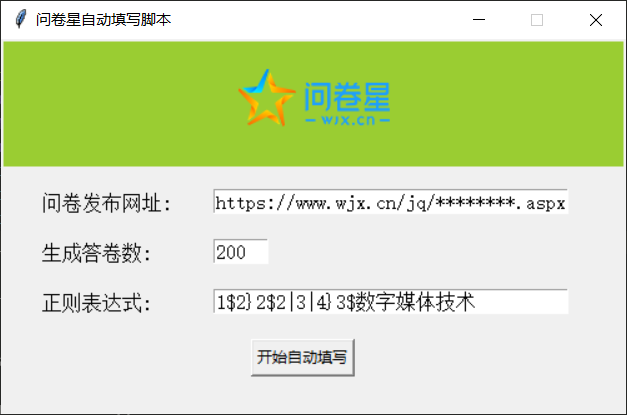
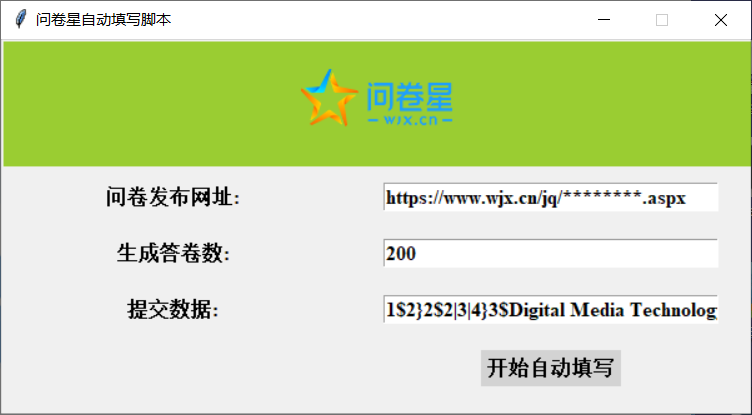
Update the whole repository

diff --git a/wjx.py b/wjx.py
@@ -3,19 +3,21 @@ import requests
 import re
 import time
 
-class WengJuanXing:
 
-    def __init__(self, url, no, exp):
+class WenJuanXing:
+
+    def __init__(self, url, no, subdata):
         self.wj_url = url
         self.no = int(no)
-        self.exp = exp
+        self.subdata = subdata
         self.post_url = None
         self.header = None
         self.cookie = None
 
     def get_response(self):
         '''
-        Get response from wj_url.
+        Access the wj_url and get the inner html.
+        :return: response from the get request
         '''
         response = requests.get(url=self.wj_url, headers=self.header)
         self.cookie = response.cookies
@@ -23,41 +25,57 @@ class WengJuanXing:
 
     def get_ktimes(self):
         ''' 
-        Generate arguments[ktimes] (randomly) of post_url.
+        Generate an integer as arguments[ktimes] to construct the post_url.
+        :return: ktimes - an integer
         '''
-        return random.randint(5, 18)
+        return random.randint(15, 50)
 
     def get_jqnonce(self, response):
         ''' 
-        Generate arguments[jqnonce] (regularly) of post_url.
+        Search for the arguments[jqnonce] from the response text through regular expression to construct the post_url.
+        :param response: response from the get request
+        :return: jqnonce - matched group
         '''
         jqnonce = re.search(r'.{8}-.{4}-.{4}-.{4}-.{12}', response.text)
         return jqnonce.group()
+        # try:
+        #     return jqnonce.group()
+        # except AttributeError:
+        #     return None
 
     def get_start_time(self, response):
         ''' 
-        Generate arguments[starttime] (regularly) of post_url.
+        Search for the arguments[start_time] from the response text through regular expression to construct the post_url.
+        :param response: response from the get request
+        :return: start_time - matched group
         '''
         start_time = re.search(r'\d+?/\d+?/\d+?\s\d+?:\d{2}', response.text)
         return start_time.group()
 
     def get_rn(self, response):
         ''' 
-        Generate arguments[rn] (regularly) of post_url.
+        Search for the arguments[rn] from the response text through regular expression to construct the post_url.
+        :param response: response from the get request
+        :return: rn - matched group
         '''
         rn = re.search(r'\d{9,10}\.\d{8}', response.text)
         return rn.group()
 
     def get_id(self, response):
         ''' 
-        Generate arguments[id] (regularly) of post_url.
+        Search for the arguments[id] from the response text through regular expression to construct the post_url.
+        :param response: response from the get request
+        :return: id - matched group
         '''
         id = re.search(r'\d{8}', response.text)
         return id.group()
 
     def get_jqsign(self, ktimes, jqnonce):
         '''
-        Generate jqsign referring to ktimes and jqsign.
+        Encrypt arguments[jqsign] with arguments[ktimes] and arguments[jqnonce] to construct the post_url.
+        :param ktimes: ktimes - an integer
+        :param jqnonce: jqnonce - matched group
+        :return: jqnonce - a string
         '''
         result = []
         b = ktimes % 10
@@ -69,6 +87,9 @@ class WengJuanXing:
         return ''.join(result)
 
     def set_post_url(self):
+        '''
+        The main function to construct the post_url.
+        '''
         self.set_header()
         response = self.get_response()
         ktimes = self.get_ktimes()
@@ -87,7 +108,7 @@ class WengJuanXing:
 
     def set_header(self):
         '''
-        Set header refer to ip(generated randomly).
+        Generate ip randomly, segmented control needed.
         '''
         ip = '{}.{}.{}.{}'.format(112, random.randint(
             64, 68), random.randint(0, 255), random.randint(0, 255))
@@ -99,13 +120,23 @@ class WengJuanXing:
 
     def set_data(self):
         '''
-        Multiple Choice Format: {ProblemId}${OptionId}
+        One-choice Format: [ProblemId]$[OptionId]
+
+        Multiple-choice Format: [ProblemId]$[OptionId|OptionId...]
+
+        Fill-in-the-blanks Format: [ProblemId]$[ContentText]
+
+        use '{' as separators
         '''
         self.data = {
-            'submitdata': self.exp
+            'submitdata': self.subdata
         }
 
     def post_data(self):
+        '''
+        Send datas to the server.
+        :return: result from the server
+        '''
         self.set_data()
         response = requests.post(
             url=self.post_url, data=self.data, headers=self.header, cookies=self.cookie)
@@ -119,6 +150,3 @@ class WengJuanXing:
     def mul_run(self):
         for i in range(self.no):
             self.run()
-
-
-

diff --git a/main_window.py b/main_window.py
@@ -1,0 +1,64 @@
+import tkinter as tk
+import tkinter.font as tf
+
+import settings
+import wjx
+
+
+class window:
+    __width = 600
+    __height = 300
+    __root = tk.Tk()
+
+    def update(self):
+        ACCESS_URL = self.var_access_url.get()
+        SAMPLE_NO = self.var_sample_no.get()
+        SUBMIT_DATA = self.var_submit_data.get()
+        print(ACCESS_URL)
+        print(SAMPLE_NO)
+        print(SUBMIT_DATA)
+        my_wjx = wjx.WenJuanXing(settings.ACCESS_URL,
+                                  settings.SAMPLE_NO, settings.SUBMIT_DATA)
+        my_wjx.mul_run()
+
+    def __init__(self):
+
+        window = self.__root
+        width = self.__width
+        height = self.__height
+
+        window.title('问卷星自动填写脚本')
+        window.geometry("%sx%s" % (width, height))
+        window.resizable(width=False, height=False)
+
+        canvas = tk.Canvas(window, width=width,
+                           height=height/3, bg='yellowgreen')
+        image_file = tk.PhotoImage(file='logo.png')
+        image = canvas.create_image(width/2, 10, anchor='n', image=image_file)
+        canvas.grid(row=0, column=0, columnspan=3)
+
+        font_style = tf.Font(family="Times", size=12, weight=tf.BOLD)
+
+        tk.Label(window, text='问卷发布网址:', font=font_style).grid(row=1, column=0, columnspan=1,rowspan=2,pady=10)
+        tk.Label(window, text='生成答卷数:', font=font_style).grid(row=3, column=0, columnspan=1,rowspan=2,pady=10)
+        tk.Label(window, text='提交数据:', font=font_style).grid(row=5, column=0, columnspan=1,rowspan=2,pady=10)
+
+        self.var_access_url = tk.StringVar()
+        self.var_access_url.set(settings.ACCESS_URL)
+        entry_access_url = tk.Entry(
+            window, textvariable=self.var_access_url, font=font_style).grid(row=1, column=1, columnspan=2,rowspan=2,pady=1,sticky='w'+'e',padx=30)
+
+        self.var_sample_no = tk.StringVar()
+        self.var_sample_no.set(settings.SAMPLE_NO)
+        entry_sample_no = tk.Entry(
+            window, textvariable=self.var_sample_no, font=font_style).grid(row=3, column=1, columnspan=2,rowspan=2,pady=1,sticky='w'+'e',padx=30)
+
+        self.var_submit_data = tk.StringVar()
+        self.var_submit_data.set(settings.SUBMIT_DATA)
+        entry_submit_data = tk.Entry(
+            window, textvariable=self.var_submit_data, font=font_style).grid(row=5, column=1, columnspan=2,rowspan=2,pady=1,sticky='w'+'e',padx=30)
+
+        btn_run = tk.Button(window, text='开始自动填写', command=self.update, font=font_style,
+                            borderwidth=0, cursor='heart', bg='#D3D3D3', activeforeground='#A9A9A9').grid(row=7, column=1, columnspan=2,rowspan=1,pady=10)
+
+        window.mainloop()

diff --git a/settings.py b/settings.py
@@ -1,12 +1,14 @@
 # default settings
 ACCESS_URL = 'https://www.wjx.cn/jq/********.aspx'
 SAMPLE_NO = 200
-REG_EXP = '1$2}2$2|3|4}3$数字媒体技术'
+SUBMIT_DATA = '1$2}2$2|3|4}3$Digital Media Technology'
 
 '''
 Forms of 'submitdata', for example:
 
 '1$2': means selecting the second option of question one (used in one-choice questions)
-'3$2|3|4': means selecting the second, the third and the fourth options of question three (used in multiple-choice questions) 
-'2$I am a student': means filling the blank with 'I am a student' of question two (used in fill-in-the-blanks)
+'2$2|3|4': means selecting the second, the third and the fourth options of question three (used in multiple-choice questions) 
+'3$Digital Media Technology': means filling the blank with '3$Digital Media Technology' of question two (used in fill-in-the-blanks)
+
+Note that we use '{' as a separator. 
 '''

diff --git a/main.py b/main.py
@@ -1,0 +1,11 @@
+import main_window
+
+
+def main():
+
+    window = main_window.window()
+
+
+if __name__ == "__main__":
+
+    main()

diff --git a/trial/README.md b/trial/README.md
@@ -1,0 +1,35 @@
+# Test for One-choice Questions
+
+## settings
+
+```
+ACCESS_URL = 'https://www.wjx.cn/jq/49773331.aspx'
+SAMPLE_NO = 50
+SUBMIT_DATA = '1$2'
+```
+
+## result
+
+<img src="test_1.png" style="width: 100%;" align="center" />
+
+Two failed among all by the following mistakes.
+
+<img src="output_1.png" style="width: 100%;" align="center" />
+
+## Test for Multiple-choice Questions
+
+## settings
+
+```
+ACCESS_URL = 'https://www.wjx.cn/jq/49773331.aspx'
+SAMPLE_NO = 50
+SUBMIT_DATA = '1$1|3|4'
+```
+
+# result
+
+<img src="test_2.png" style="width: 100%;" align="center" />
+
+Seven failed among all by the following mistakes.
+
+<img src="output_2.png" style="width: 100%;" align="center" />

diff --git a/README.md b/README.md
@@ -15,7 +15,7 @@
 
 - 生成答卷数
 
-- 正则表达式
+- 提交数据
     ```
     格式：
     '1$2': 代表第一题选择第二个选项
@@ -41,7 +41,7 @@ pip install requests
 
 ## Contribution & Feedback
 
-目前脚本仅局限于单项选择题和多项选择题的自动填写，如果你有更好的建议...
+如果你有更好的建议...
 
 :octocat: @Jocoboy 
 
